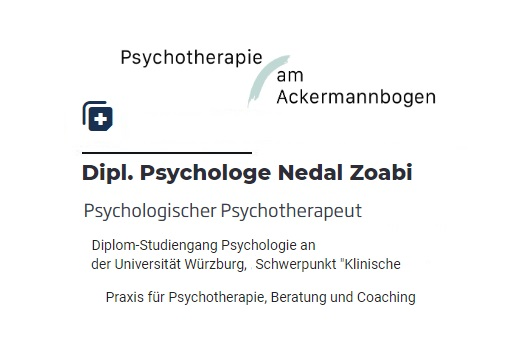
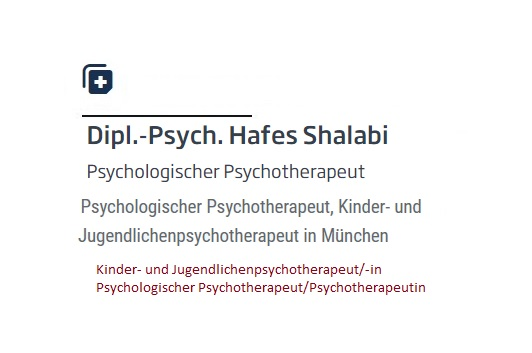
fix

Changed region(s): [[0.1504, 0.5609, 0.812, 0.8725], [0.1504, 0.1246, 0.812, 0.4363], [0.1504, 0.4674, 0.782, 0.5297]]

diff --git a/data/db-other.js b/data/db-other.js
@@ -404,14 +404,42 @@ const other = [
         rate: 4.6,
         likes: '119',
         featured: true,
-    },   
+    }, 
     {
         id: '15',
-        title: 'Dipl. Nedal Zoabi',
+        title: 'Dipl. Hafes Shalabi',
         category: 'arabic doctors',
         icon: 'fa-solid fa-shop',
         images: [
             './images/other/other-15.jpeg',
+        ],
+        country: 'Germany',
+        location: 'https://goo.gl/maps/hX9jREKHcm3jAp3U8',
+        site: 'https://focus-arztsuche.de/arzt/dipl-psych-hafes-shalabi-3109709',
+        facebook: '',
+        termin: 'https://www.jameda.de/muenchen/psychotherapeuten-psychologen/dipl-psych-hafes-shalabi/uebersicht/81053703_1/',
+        address1: 'Türkenstraße 67, 80799 München',
+        phone: '08928803937',
+        email:'',
+        description: 'Dipl. Hafes Shalabi, Psychotherapist , psychotherapie in Psychologischer Psychotherapeut/Psychotherapeutin. Policy Procedure: Behavioral Therapy for Children and Adolescents (Guide).',
+        more: '',
+        thingstodo: [
+            'Psychotherapy',  
+            'Children',
+            'Adolescents',         
+            'Psychologischer',
+        ],
+        rate: 4.4,
+        likes: '413',
+        featured: true,
+    },    
+    {
+        id: '16',
+        title: 'Dipl. Nedal Zoabi',
+        category: 'arabic doctors',
+        icon: 'fa-solid fa-shop',
+        images: [
+            './images/other/other-16.jpeg',
         ],
         country: 'Germany',
         location: 'https://goo.gl/maps/KtVcpbAdqHzgX5KM7',
@@ -419,9 +447,9 @@ const other = [
         facebook: '',
         termin: 'https://en.nicelocal.com.de/munich/medical/praxis_fur_psychotherapie_am_ackermannbogen_dipl_psychologe_nedal_zoabi/',
         address1: 'Adams-Lehmann-Straße 38, 80797 München',
-        phone: '089 12003685',
+        phone: '08912003685',
         email:'info@psychotherapie-am-ackermannbogen.de',
-        description: 'Dipl. Nedal Zoabi, Psychotherapist , psychotherapie in ackermannbogen. Psychologische Psychotherapeut (verliehen in der Bundesrepublik Deutschland von der Regierung Oberbayern).',
+        description: 'Dipl. Nedal Zoabi, Psychotherapist , psychotherapie in ackermannbogen. Psychological psychotherapist (awarded in the Federal Republic of Germany by the government of Upper Bavaria).',
         more: '',
         thingstodo: [
             'Psychotherapy',            
